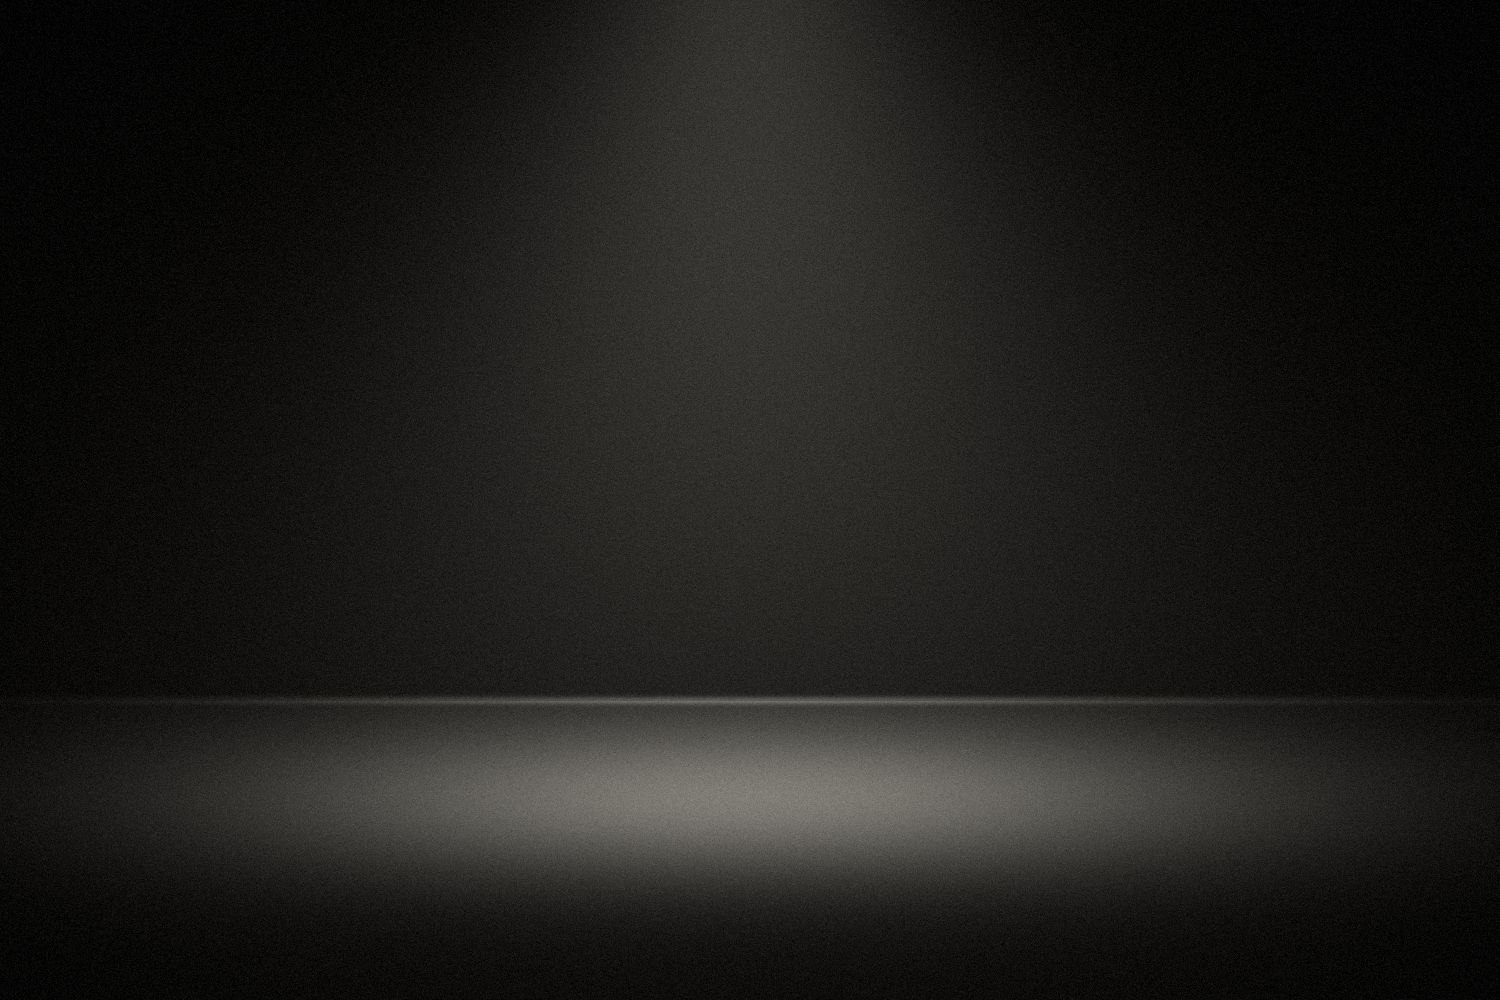
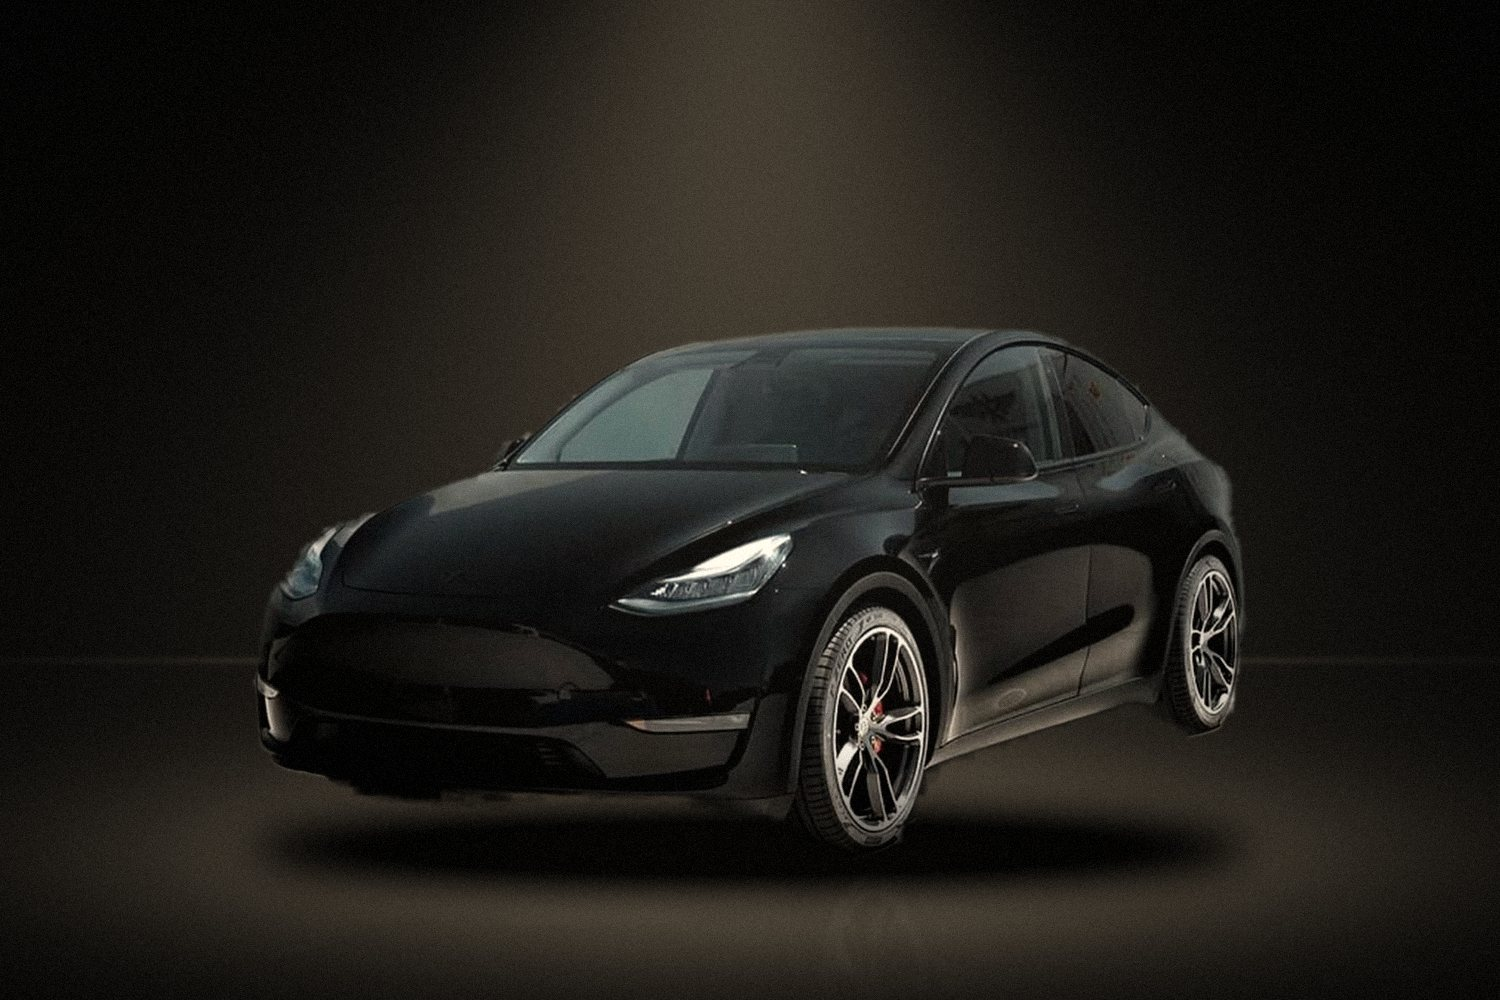
Add files via upload

Changed region(s): [[0.0613, 0.31, 0.92, 1.0], [0.184, 0.496, 0.2453, 0.62]]

diff --git a/public/config.js b/public/config.js
@@ -43,7 +43,7 @@ window.SITE_CONFIG = {
   accueil: {
     surtitre: "Service privé · Sur réservation",
     slogan: "L'excellence<br><em>à chaque destination.</em>",   // <br> = retour à la ligne
-    texte: "Votre chauffeur en Tesla Model Y ou Mercedes-Benz Viano, à Genève et dans les Alpes, sur la Côte d'Azur et en Bourgogne.",
+    texte: "Votre chauffeur en Tesla Model Y ou Mercedes-Benz Classe V, à Genève et dans les Alpes, sur la Côte d'Azur et en Bourgogne.",
     boutonReservation: "Demander une réservation",
     boutonCourt: "Réserver un trajet",              // Barre flottante en bas d'écran
     boutonWhatsApp: "Contacter via WhatsApp"
@@ -100,13 +100,13 @@ window.SITE_CONFIG = {
           { label: "Motorisation", valeur: "Électrique" },
           { label: "Passagers", valeur: "Jusqu'à 4" }
         ],
-        image: "assets/img/tesla-model-y.jpg",
-        imageAlt: "Tesla Model Y"
+        image: "assets/img/tesla-model-y.jpg?v=2",
+        imageAlt: "Tesla Model Y noire"
       },
       {
-        id: "viano",
-        nom: "Mercedes-Benz Viano",
-        nomCourt: "Viano",
+        id: "classe-v",
+        nom: "Mercedes-Benz Classe V",
+        nomCourt: "Classe V",
         categorie: "Van grand confort",
         description: "Un espace généreux pour voyager à plusieurs, en famille ou entre collaborateurs, avec vos bagages.",
         passagersMax: 7,                    // À vérifier selon votre configuration
@@ -114,8 +114,8 @@ window.SITE_CONFIG = {
           { label: "Format", valeur: "Van" },
           { label: "Passagers", valeur: "Jusqu'à 7" }
         ],
-        image: "assets/img/mercedes-viano.jpg",
-        imageAlt: "Mercedes-Benz Viano"
+        image: "assets/img/mercedes-classe-v.jpg?v=1",
+        imageAlt: "Mercedes-Benz Classe V noir"
       }
     ]
   },
@@ -190,7 +190,8 @@ window.SITE_CONFIG = {
   suivi: {
     sources: {
       "tesla": "QR code — Tesla Model Y",
-      "viano": "QR code — Mercedes-Benz Viano",
+      "classe-v": "QR code — Mercedes-Benz Classe V",
+      "viano": "QR code — Mercedes-Benz Classe V",      // ancien code, conservé par sécurité
       "contact": "Fiche contact enregistrée",
       "carte": "Carte de visite",
       "google-ads": "Google Ads",

diff --git a/public/index.html b/public/index.html
@@ -19,8 +19,8 @@
 <link rel="preconnect" href="https://fonts.googleapis.com">
 <link rel="preconnect" href="https://fonts.gstatic.com" crossorigin>
 <link rel="stylesheet" href="https://fonts.googleapis.com/css2?family=Bodoni+Moda:ital,opsz,wght@0,6..96,400;0,6..96,500;1,6..96,400&family=Jost:wght@300;400;500&display=swap">
-<link rel="stylesheet" href="assets/css/style.css?v=20261016c">
-<script src="assets/js/mode.js?v=20261016c"></script>
+<link rel="stylesheet" href="assets/css/style.css?v=20261016d">
+<script src="assets/js/mode.js?v=20261016d"></script>
 </head>
 <body>
 
@@ -359,7 +359,7 @@
 
 <noscript><p class="noscript">Ce site nécessite JavaScript pour afficher son contenu.</p></noscript>
 
-<script src="config.js?v=20261016c"></script>
-<script src="assets/js/main.js?v=20261016c"></script>
+<script src="config.js?v=20261016d"></script>
+<script src="assets/js/main.js?v=20261016d"></script>
 </body>
 </html>

diff --git a/public/confidentialite.html b/public/confidentialite.html
@@ -9,7 +9,7 @@
 <meta name="theme-color" content="#0c0b09">
 <link rel="icon" href="assets/img/favicon.svg" type="image/svg+xml">
 <link rel="stylesheet" href="https://fonts.googleapis.com/css2?family=Bodoni+Moda:ital,opsz,wght@0,6..96,400;1,6..96,400&family=Jost:wght@300;400&display=swap">
-<link rel="stylesheet" href="assets/css/style.css?v=20261016c">
+<link rel="stylesheet" href="assets/css/style.css?v=20261016d">
 </head>
 <body class="legal-page">
 <header class="top">
@@ -77,7 +77,7 @@
 
   <p>Dernière mise à jour : <span data-c="legal.dateMiseAJour"></span></p>
 </main>
-<script src="config.js?v=20261016c"></script>
-<script src="assets/js/legal.js?v=20261016c"></script>
+<script src="config.js?v=20261016d"></script>
+<script src="assets/js/legal.js?v=20261016d"></script>
 </body>
 </html>

diff --git a/public/mentions-legales.html b/public/mentions-legales.html
@@ -9,7 +9,7 @@
 <meta name="theme-color" content="#0c0b09">
 <link rel="icon" href="assets/img/favicon.svg" type="image/svg+xml">
 <link rel="stylesheet" href="https://fonts.googleapis.com/css2?family=Bodoni+Moda:ital,opsz,wght@0,6..96,400;1,6..96,400&family=Jost:wght@300;400&display=swap">
-<link rel="stylesheet" href="assets/css/style.css?v=20261016c">
+<link rel="stylesheet" href="assets/css/style.css?v=20261016d">
 </head>
 <body class="legal-page">
 <header class="top">
@@ -50,7 +50,7 @@
 
   <p>Dernière mise à jour : <span data-c="legal.dateMiseAJour"></span></p>
 </main>
-<script src="config.js?v=20261016c"></script>
-<script src="assets/js/legal.js?v=20261016c"></script>
+<script src="config.js?v=20261016d"></script>
+<script src="assets/js/legal.js?v=20261016d"></script>
 </body>
 </html>

diff --git a/public/404.html b/public/404.html
@@ -3,6 +3,6 @@
 <title>Page introuvable — ELEV8 Private Driver</title><meta name="robots" content="noindex">
 <link rel="icon" href="/assets/img/favicon.svg" type="image/svg+xml">
 <link rel="stylesheet" href="https://fonts.googleapis.com/css2?family=Bodoni+Moda:ital,opsz,wght@0,6..96,400;1,6..96,400&family=Jost:wght@300;400&display=swap">
-<link rel="stylesheet" href="/assets/css/style.css?v=20261016c"></head>
+<link rel="stylesheet" href="/assets/css/style.css?v=20261016d"></head>
 <body class="legal-page"><main class="wrap legal"><p class="eyebrow">ELEV8 Private Driver</p><h1>Page introuvable</h1>
 <p>La page demandée n'existe pas ou a été déplacée.</p><a class="back" href="/">← Retour à l'accueil</a></main></body></html>

diff --git a/public/assets/js/main.js b/public/assets/js/main.js
@@ -184,7 +184,7 @@
   })();
 
   /* ---------- WhatsApp direct (sans formulaire) : tous les boutons [data-wa-direct] ----------
-     Le message prérempli mentionne l'origine (QR code Tesla / Viano, campagne…) pour le suivi. */
+     Le message prérempli mentionne l'origine (QR code Tesla / Classe V, campagne…) pour le suivi. */
   var waNumber = String(C.contact.whatsapp).replace(/[^\d]/g, "");
   var waDirectText = (C.reservation.messageWhatsAppDirect || "Bonjour, je souhaite des renseignements pour un trajet.") +
     (ORIGINE.code ? "\n\n(Origine : " + ORIGINE.libelle + ")" : "");

diff --git a/README.md b/README.md
@@ -81,7 +81,7 @@ Ouvrez `public/config.js` avec un éditeur de texte (VS Code, Bloc-notes…).
   (06 12 34 56 78 → `33612345678` ; 079 123 45 67 → `41791234567`).
 - **Indicatif proposé par défaut** : `reservation.indicatifParDefaut` (`+33` ou `+41`). Les visiteurs
   dont le navigateur est réglé en français de Suisse voient `+41` automatiquement.
-- **Véhicules** : vérifiez `passagersMax` (4 pour la Tesla, 7 pour le Viano par défaut).
+- **Véhicules** : vérifiez `passagersMax` (4 pour la Tesla, 7 pour le Classe V par défaut).
 - **Destinations et prestations** : textes modifiables. Une prestation avec `transfert: "vol"`,
   `"train"` ou `"vol-train"` fait apparaître le champ « N° de vol / de train ».
 - **Mentions légales** : complétez tout le bloc `legal` (SIRET, n° d'inscription au registre VTC,
@@ -97,7 +97,7 @@ Remplacez les fichiers de `public/assets/img/` **en gardant les mêmes noms** :
 |----------------------|---------------------------|---------------------------|
 | `hero.jpg`           | Image d'aperçu quand le lien est partagé (WhatsApp, SMS, réseaux) — n'apparaît pas sur la page | 1200 × 630 px, < 300 Ko |
 | `tesla-model-y.jpg`  | Fiche Tesla Model Y       | 1500 × 1000 px            |
-| `mercedes-viano.jpg` | Fiche Mercedes-Benz Viano | 1500 × 1000 px            |
+| `mercedes-classe-v.jpg` | Fiche Mercedes-Benz Classe V | 1500 × 1000 px         |
 
 Compressez-les (squoosh.app). Passez ensuite `afficherMentionPhotoProvisoire` à `false`.
 

diff --git a/GUIDE-MISE-EN-LIGNE.md b/GUIDE-MISE-EN-LIGNE.md
@@ -277,11 +277,11 @@ Liens définitifs :
 | Véhicule | Lien encodé dans le QR code |
 |---|---|
 | Tesla Model Y | `https://elevateprivatedriver.com/?bord=1&src=tesla` |
-| Mercedes-Benz Viano | `https://elevateprivatedriver.com/?bord=1&src=viano` |
+| Mercedes-Benz Classe V | `https://elevateprivatedriver.com/?bord=1&src=classe-v` |
 
 1. Testez chaque lien à la main sur votre téléphone : le mode passager doit s'ouvrir (logo E8 animé, « Merci de voyager avec ELEV8 Private Driver » et les trois boutons Réserver, WhatsApp, Appeler).
 2. Envoyez une demande depuis chaque lien : l'e-mail doit indiquer « Origine : QR code — Tesla Model Y »
-   ou « Origine : QR code — Mercedes-Benz Viano ».
+   ou « Origine : QR code — Mercedes-Benz Classe V ».
 3. Je génère ensuite les QR codes **statiques** prêts à imprimer (sans service intermédiaire qui
    pourrait expirer). Évitez les générateurs en ligne « dynamiques » : beaucoup redirigent par leurs
    propres serveurs et cessent de fonctionner à la fin d'un essai gratuit.

diff --git a/CAMPAGNES.md b/CAMPAGNES.md
@@ -13,7 +13,7 @@ de bandeau de consentement.
 |---|---|
 | QR générique dans le véhicule | `https://elevateprivatedriver.com/?bord=1` |
 | QR de la Tesla Model Y | `https://elevateprivatedriver.com/?bord=1&src=tesla` |
-| QR du Mercedes-Benz Viano | `https://elevateprivatedriver.com/?bord=1&src=viano` |
+| QR du Mercedes-Benz Classe V | `https://elevateprivatedriver.com/?bord=1&src=classe-v` |
 
 `bord=1` ouvre le **mode passager** : une page courte de recontact (logo animé, « Réserver un trajet », « Contacter via WhatsApp », « Appeler », puis véhicules, zones et prestations). Textes modifiables dans le bloc `bord` de `config.js`. Le visiteur peut toujours ouvrir le site complet.
 
